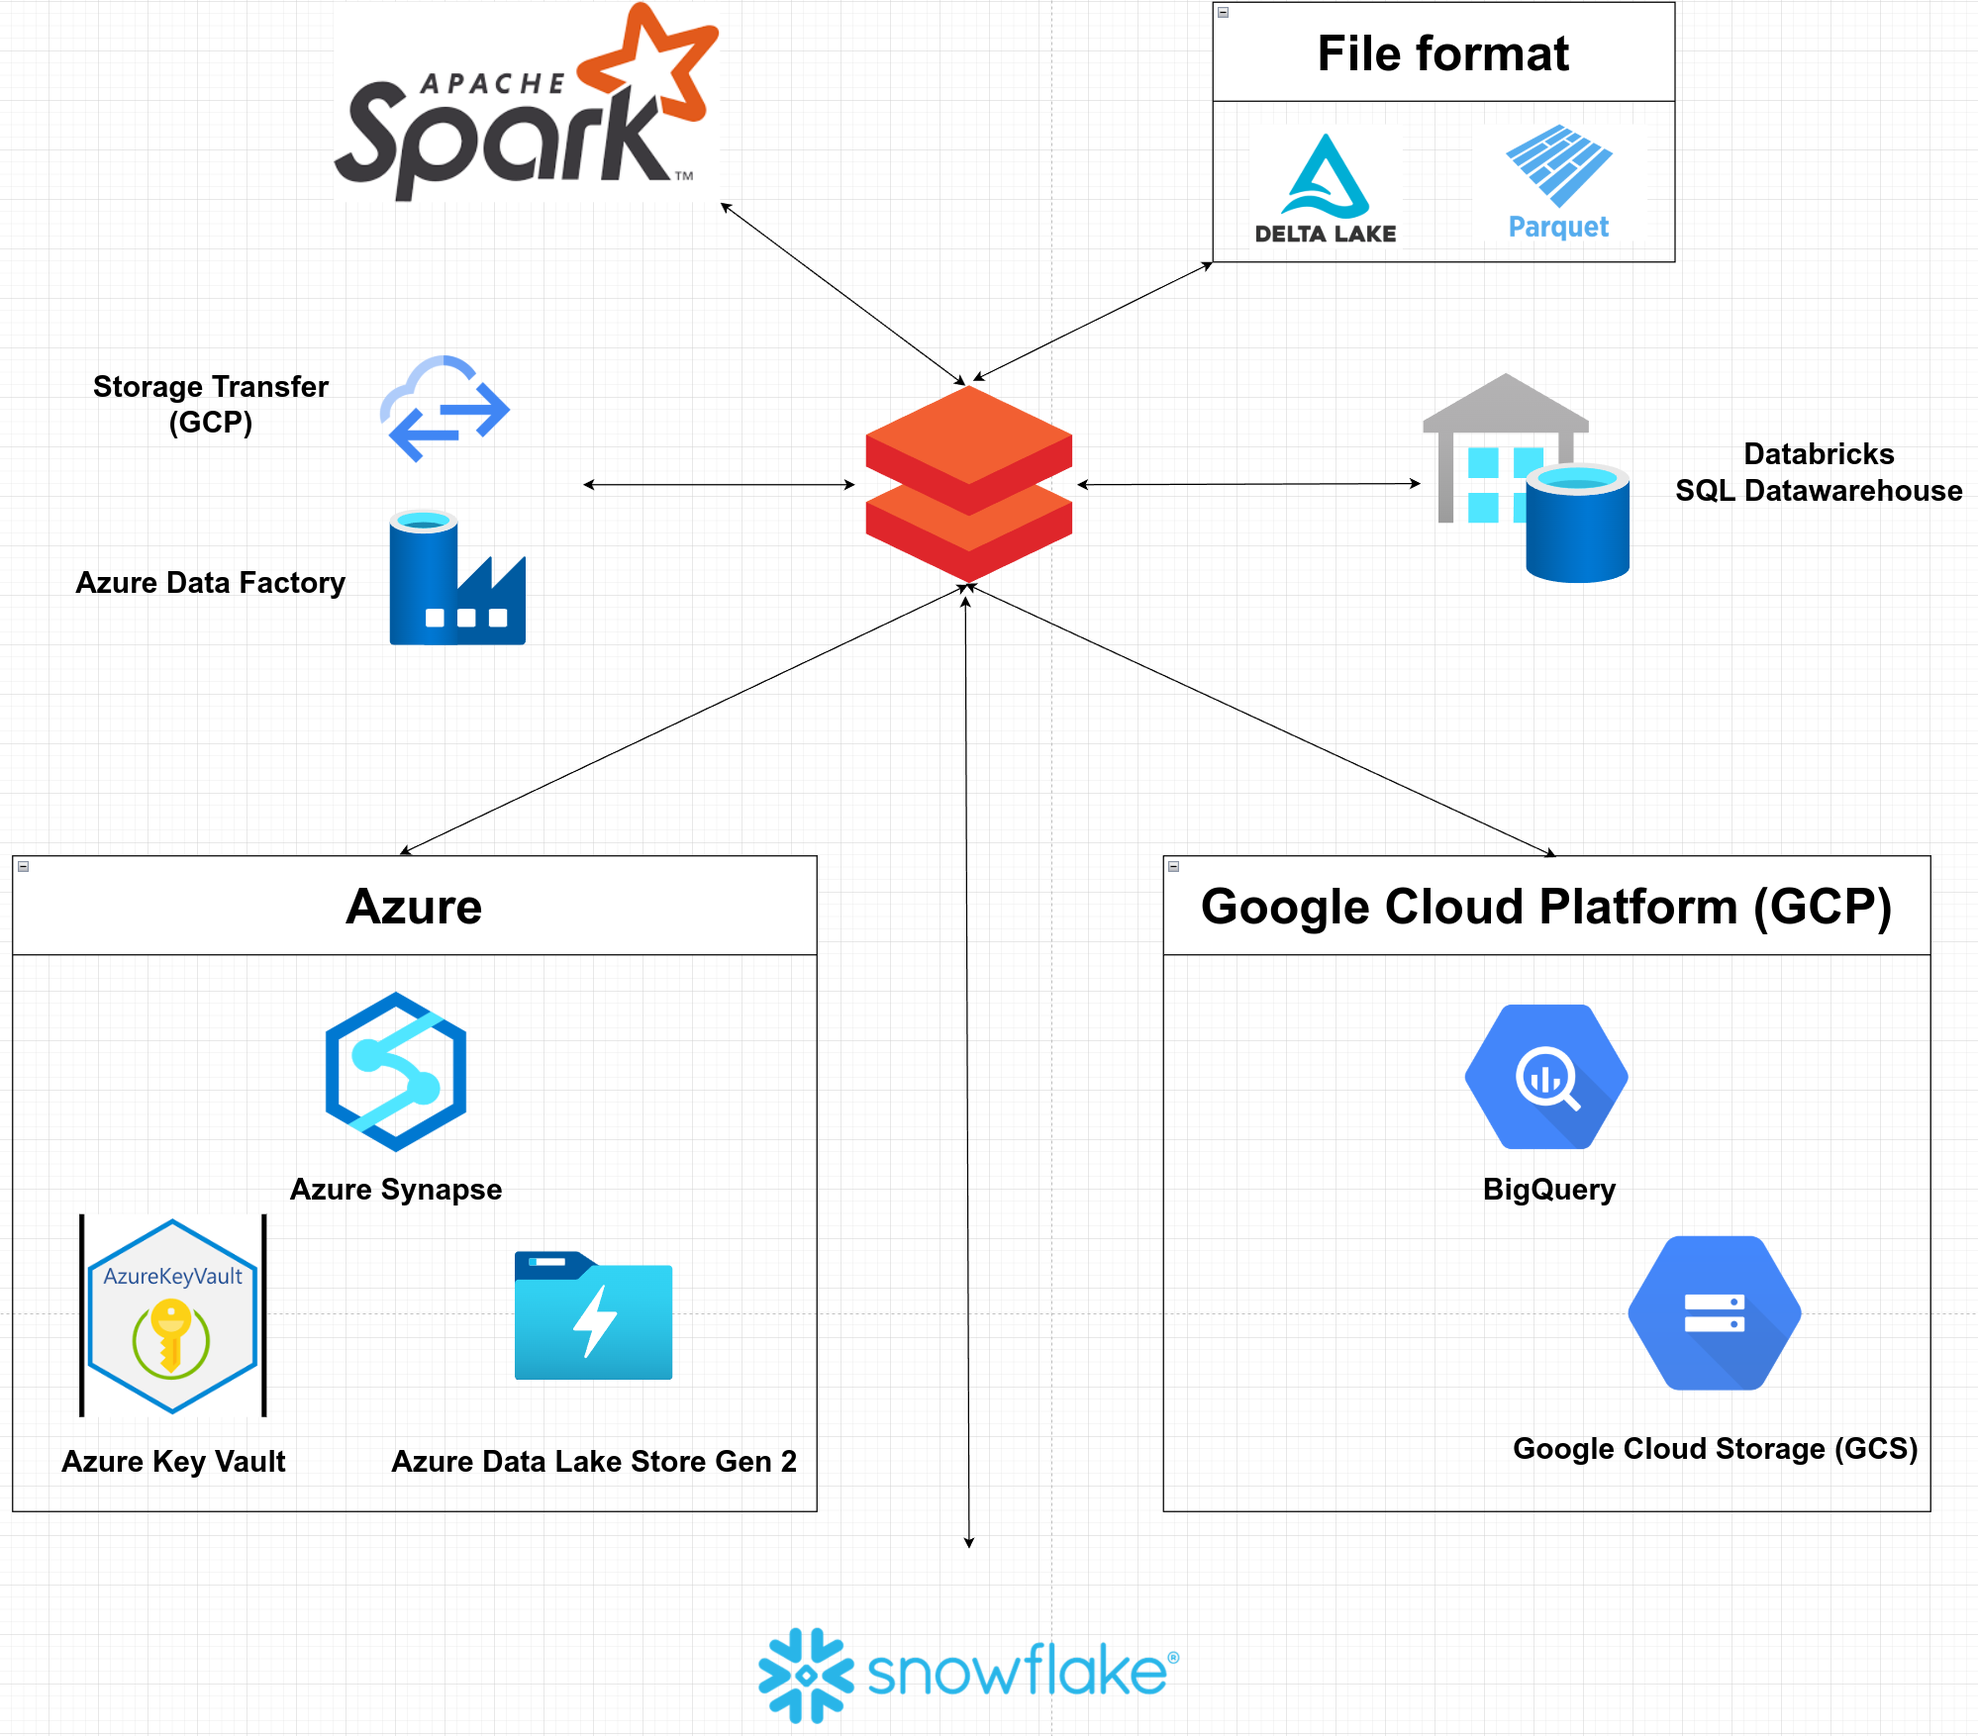
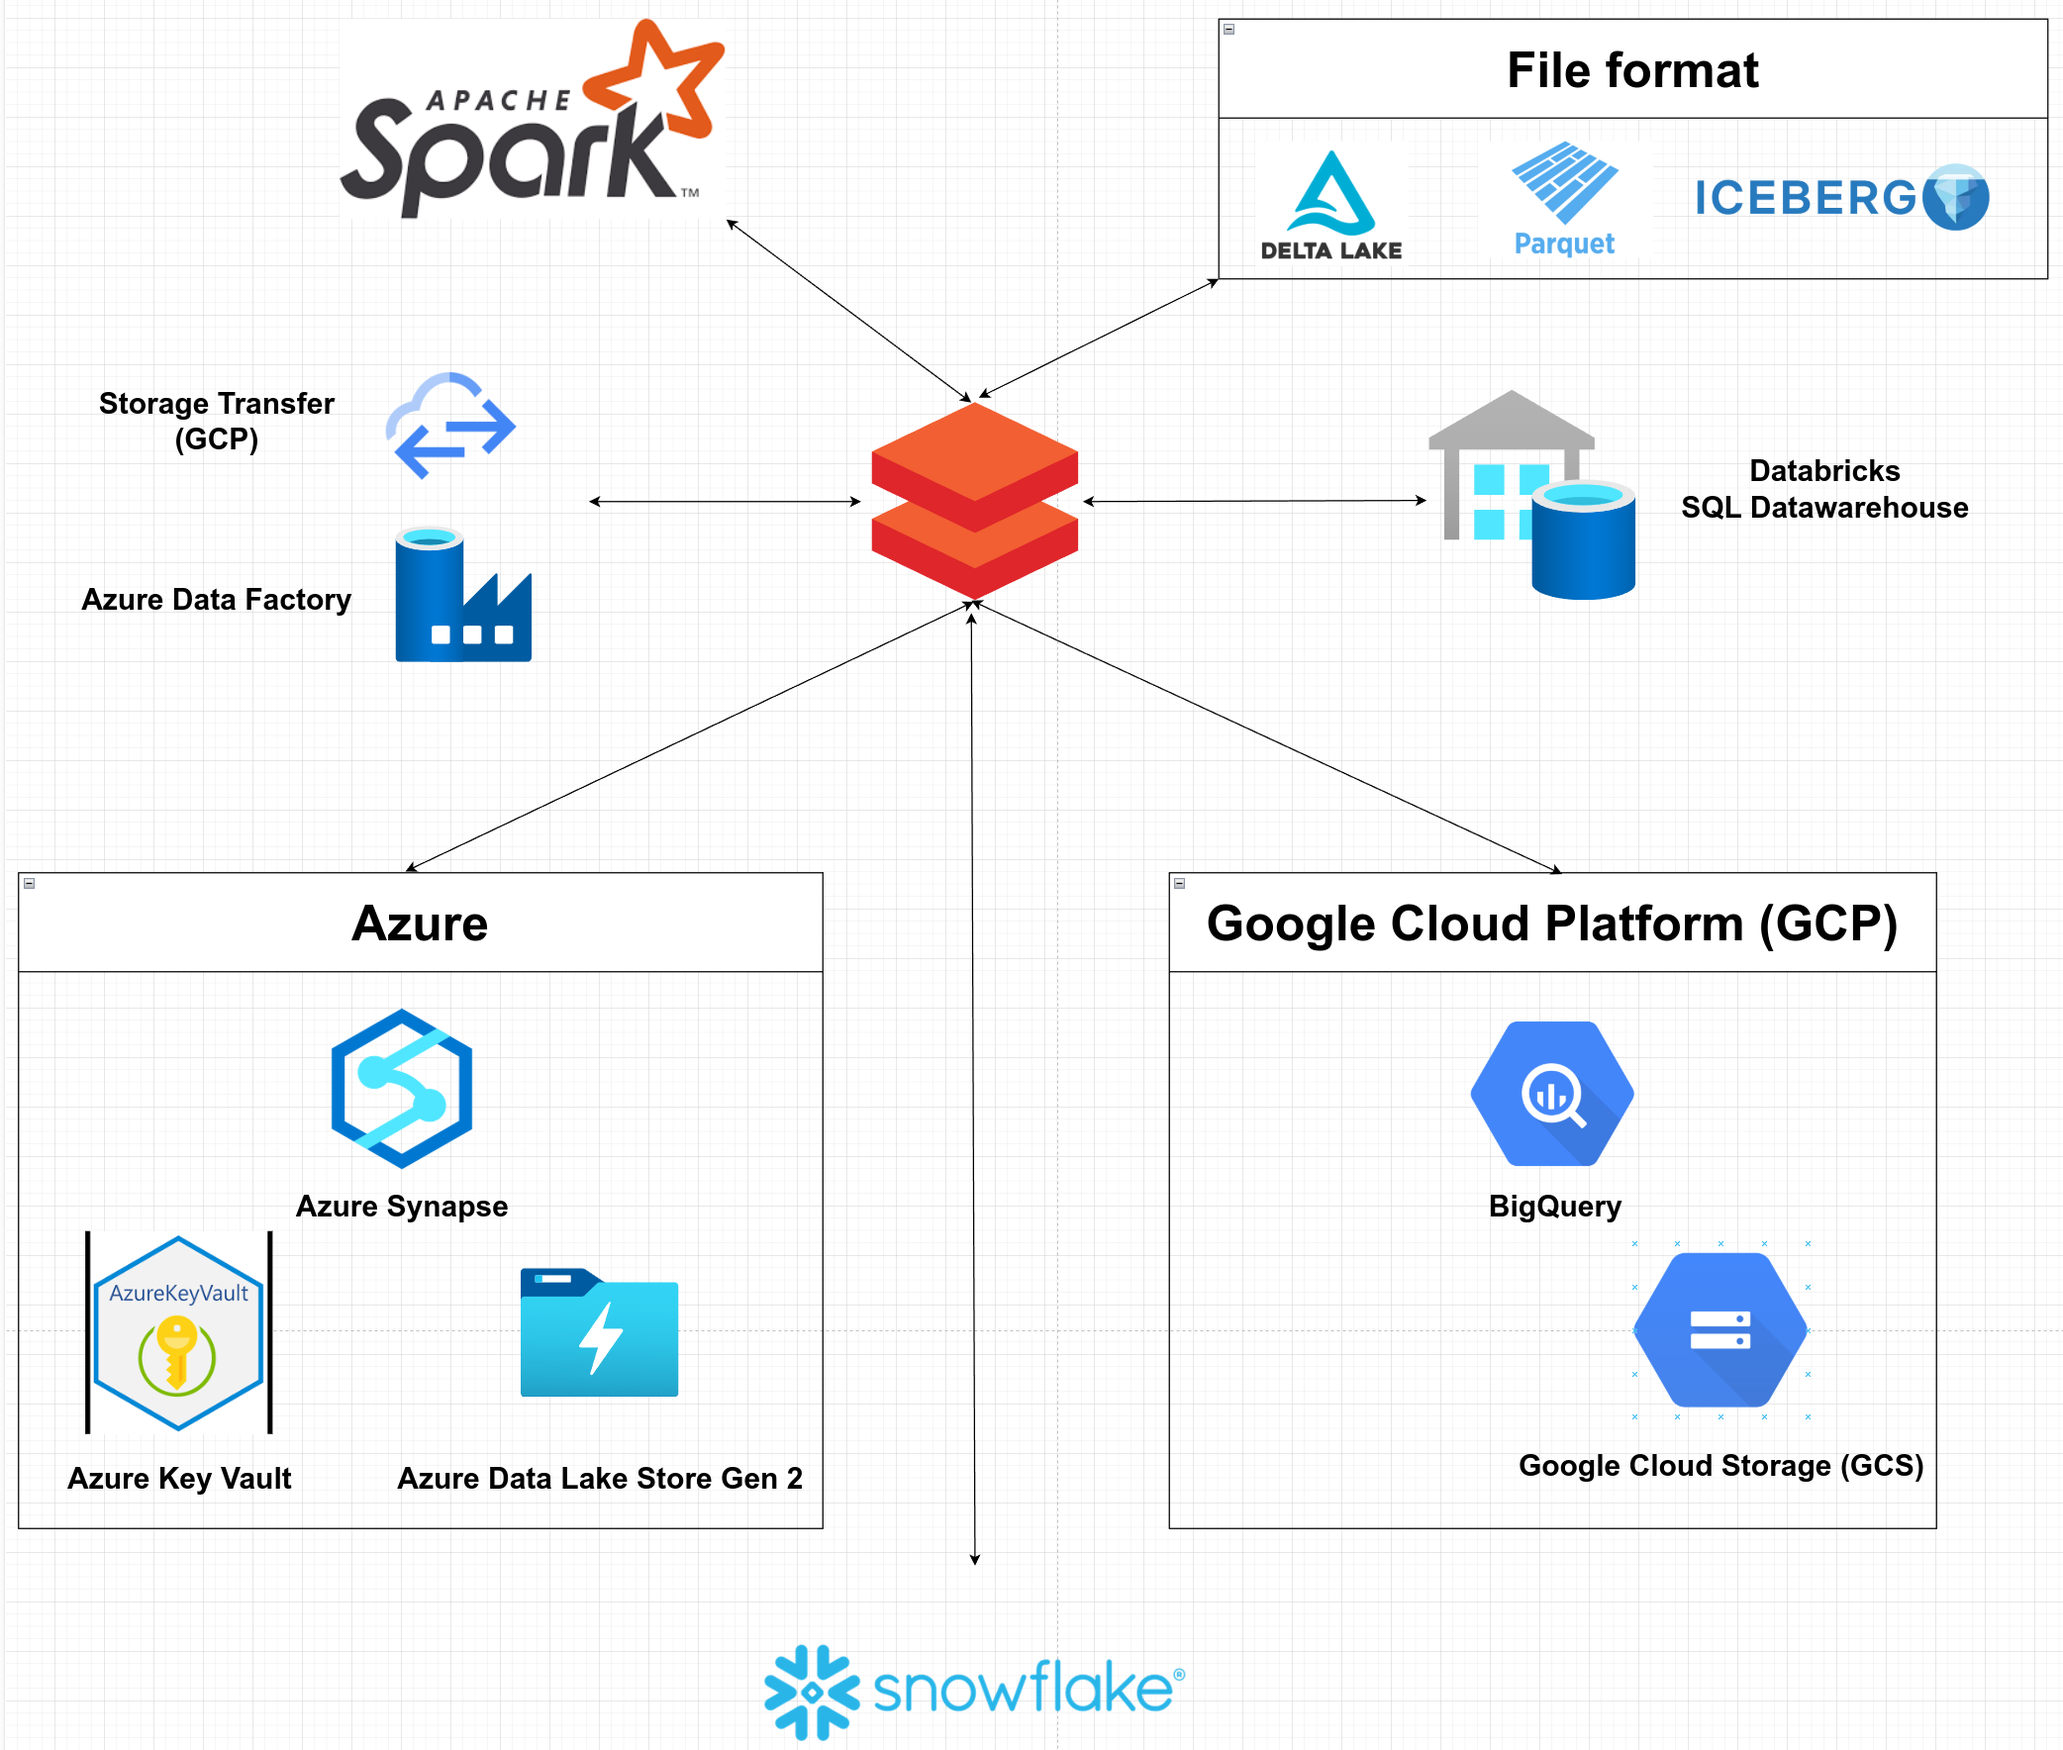
Update README.md with iceberg

diff --git a/README.md b/README.md
@@ -1,4 +1,4 @@
-# NYC Taxi Data Analytics: Multi-Platform Comparison (Databricks, BigQuery, Snowflake)
+# NYC Taxi Data Analytics: Multi-Platform Comparison (Databricks, BigQuery, Snowflake) with Delta Lake & Iceberg
 
 ## Table of Contents
 - [Overview](#overview)
@@ -56,6 +56,10 @@
   - [Best Practices](#best-practices)
   - [Schema Management](#schema-management)
   - [Storage Optimization](#storage-optimization)
+- [Iceberg](#iceberg)
+  - [Azure Implementation](#azure-implementation)
+    - [Creating Iceberg Tables](#creating-iceberg-tables)
+    - [Reading Iceberg Tables](#reading-iceberg-tables)
 - [Future Enhancements](#future-enhancements)
 
 ## Overview
@@ -79,6 +83,10 @@ Extended data processing from the original 2016-2017 range to include all NYC ta
 ### 🔍 Optimize Transformation Query for Big Dataset (Yellow Taxi)
 
 Added query optimization techniques (by using BROADCAST join hint and UNION ALL query approach) for better performance and ad-hoc queries on the large Yellow Taxi dataset (1.37B records)
+
+### 📦 Added Support Iceberg Table Formats
+
+Extended the project with comprehensive guides for Iceberg table formats. We provide detailed instructions for creating and reading Iceberg tables in Azure Databricks environments.
 
 ## Architecture
 
@@ -751,6 +759,107 @@ Choose between these options based on your specific needs and requirements. Delt
   - Leverage Delta Lake's version restore mechanism to retrieve historical data when needed
   
   This approach optimizes storage costs while maintaining the ability to access historical data through Delta Lake's time travel capabilities.
+
+## ICEBERG
+
+Iceberg is an open table format designed for large analytical datasets. This section covers how to create and read Iceberg tables in Databricks.
+
+### Azure Implementation
+
+The following guide focuses on implementing Iceberg tables in Azure Databricks environments.
+
+#### Creating Iceberg Tables
+
+#### Prerequisites
+
+Before creating Iceberg tables, set column mapping mode to 'name' for your Delta Lake table:
+
+```sql
+ALTER TABLE <delta_lake_schema>.<delta_lake_table> 
+SET TBLPROPERTIES ('delta.columnMapping.mode' = 'name');
+```
+
+#### Method 1: Convert Existing Delta Table
+
+```sql
+-- Disable deletion vectors
+ALTER TABLE <delta_lake_schema>.<delta_lake_table> 
+SET TBLPROPERTIES ('delta.enableDeletionVectors' = 'false');
+
+-- Purge deleted data
+REORG TABLE <delta_lake_schema>.<delta_lake_table> APPLY (PURGE);
+
+-- Enable Iceberg compatibility
+ALTER TABLE <delta_lake_schema>.<delta_lake_table> 
+SET TBLPROPERTIES (
+  'delta.columnMapping.mode' = 'name', 
+  'delta.enableIcebergCompatV2' = 'true',
+  'delta.universalFormat.enabledFormats' = 'iceberg'
+);
+```
+
+#### Method 2: Create New Table via Deep Clone
+
+Use this method if you prefer to keep the original Delta table unchanged:
+
+```sql
+CREATE TABLE <unity_catalog_name>.<delta_lake_schema>.<iceberg_table> 
+DEEP CLONE <unity_catalog_name>.<delta_lake_schema>.<delta_lake_table>
+TBLPROPERTIES(
+  'delta.enableDeletionVectors' = 'false',
+  'delta.enableIcebergCompatV2' = 'true',
+  'delta.universalFormat.enabledFormats' = 'iceberg'
+)
+LOCATION "abfss://<container_name>@<storage_name>.dfs.core.windows.net/<table_data_path>";
+```
+
+### Reading Iceberg Tables
+
+#### Known Issues
+
+Databricks has compatibility issues when reading Iceberg tables with Spark and Unity Catalog:
+- "iceberg is not a valid Spark SQL Data Source"
+- "Multiple sources found for iceberg"
+
+> **Note:** While older Databricks runtime (12.2) can run without Unity Catalog, this is not recommended. The preferred approach is using the [Iceberg API for Spark](https://docs.databricks.com/aws/en/external-access/iceberg#read-iceberg-tables-with-apache-spark).
+
+#### Local Spark Setup Workaround
+
+1. **Install Required Components**
+   - JDK, Scala 2.12, and Apache Spark 3.5.2 with Hadoop
+   - Follow [this guide](https://phoenixnap.com/kb/install-spark-on-ubuntu)
+   - Match Databricks Runtime 16.2 compatibility
+
+2. **Download Iceberg Libraries**
+   - iceberg-azure-bundle-1.8.1.jar
+   - iceberg-spark-runtime-3.5_2.12-1.8.1.jar
+
+3. **Launch Spark with Iceberg Support**
+   ```bash
+   spark-shell --jars=<path-to>/iceberg-azure-bundle-1.8.1.jar,<path-to>/iceberg-spark-runtime-3.5_2.12-1.8.1.jar
+   ```
+
+4. **Configure and Read Iceberg Tables**
+   ```scala
+   // Create SparkSession with Iceberg configuration
+   import org.apache.spark.sql.SparkSession
+   val spark_test = SparkSession.builder()
+     .appName("IcebergRead")
+     .config("spark.sql.extensions", "org.apache.iceberg.spark.extensions.IcebergSparkSessionExtensions")
+     .config("spark.sql.catalog.<catalog_name>", "org.apache.iceberg.spark.SparkCatalog")
+     .config("spark.sql.catalog.<catalog_name>.type", "rest")
+     .config("spark.sql.catalog.<catalog_name>.token", "<databricks_token>")
+     .config("spark.sql.catalog.<catalog_name>.uri", "https://<workspace_url>/api/2.1/unity-catalog/iceberg")
+     .config("spark.sql.catalog.<catalog_name>.warehouse", "<catalog_name>")
+     .config("spark.sql.defaultCatalog", "<catalog_name>")
+     .getOrCreate()
+
+   // Read from Iceberg table
+   val df = spark_test.read.format("iceberg").load("<catalog_name>.<schema_name>.<iceberg_table_name>")
+   df.show()
+   ```
+
+Replace placeholders with your actual values for catalog name, token, workspace URL, schema, and table names.
 
 ## Future Enhancements
 
